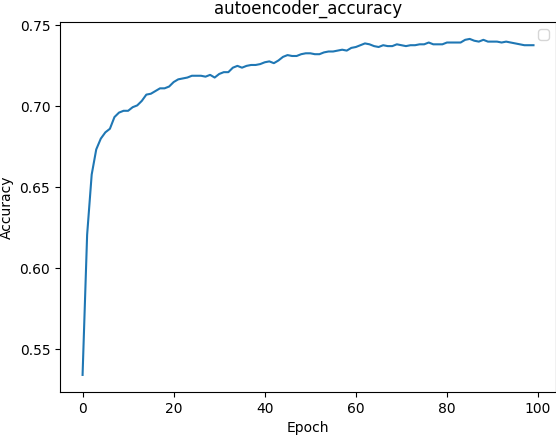
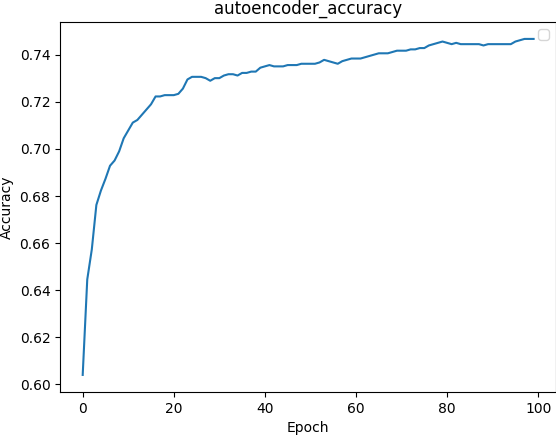
start assignment 3

diff --git a/assignment_3_1/model/model.py b/assignment_3_1/model/model.py
@@ -1,0 +1,71 @@
+import math
+from utils import generate_layers
+from layer.relu_layer import ReluLayer
+
+class Model:
+    def __init__(self, learning_rate, epochs, batch_size, layer_sizes) -> None:
+        self._layers = generate_layers(layer_sizes, ReluLayer, self.last_layer_class())
+        self._learning_rate = learning_rate
+        self._epochs = epochs
+        self._batch_size = batch_size
+        self.loss_data_points = []
+        self.accuracy_data_points = []
+        self.train_loss_data_point = []
+
+    def forward_propagation(self, X):
+        A = X
+        for layer in self._layers:
+            A = layer.forward_propagation(A)
+        return A
+    
+    def backward_propagation(self, dA):
+        dA_curr = dA
+        for layer in reversed(self._layers):
+            dA_curr = layer.backward_propagation(dA_curr)
+
+    def update(self, lr):
+        for layer in self._layers:
+            layer.update(lr)
+
+    def train(self, X, y, X_valid, y_valid):
+        X = X
+        y = y
+        for epoch in range(self._epochs):
+            i=0
+            num_of_batches = int(len(X)/self._batch_size)
+
+            for m in range(num_of_batches):
+                x = (X[i:i+self._batch_size]).T
+                y_true = (y[i:i+self._batch_size]).T
+                y_pred = self.forward_propagation(x)  
+                dA = self.calculate_dA(y_pred, y_true)
+                self.backward_propagation(dA)
+                self.update(self._learning_rate/(1 + math.log(epoch + 1, 2)))
+                i=i+self._batch_size
+
+            y_probabilities = self.forward_propagation(X_valid.T)
+            y_pred = self.predict(X_valid)
+            loss = self.calculate_loss(y_probabilities, y_valid.T)
+            accuracy = self.evaluation(y_valid.T, y_pred)
+            self.loss_data_points.append(loss)
+            self.accuracy_data_points.append(accuracy)
+            y_train_probabilities = self.forward_propagation(X.T)
+            loss = self.calculate_loss(y_train_probabilities, y.T)
+            self.train_loss_data_point.append(loss)
+
+
+    def calculate_loss(self, y_pred, y):
+        pass
+
+    def calculate_dA(self, y_pred, y):
+        pass
+
+    def evaluation(self, y_true, y_pred):
+        pass
+
+    def predict(self, X):
+        pass
+
+    def last_layer_class(self):
+        pass
+    

diff --git a/assignment_3_1/experiments.py b/assignment_3_1/experiments.py
@@ -1,0 +1,32 @@
+from model.autoencoder_model import AutoencoderModel
+from utils import vector_descaling, plot, save_image, plot_weights, plot_umap, vector_descaling, save_unseen_examples
+
+def batch_size_experiment(X_train, X_val, X_test, y_test):
+    lr = 0.02
+    batch_sizes = [5, 50, 500]
+    epochs = 50
+    dimensions = [784, 256, 64, 256, 784]
+
+    loss_data_points_arr = []
+    accuracy_data_points_arr = []
+    train_loss_data_points_arr = []
+
+
+    for i, batch_size in enumerate(batch_sizes):
+        model = AutoencoderModel(lr, epochs, batch_size, dimensions)
+        model.train(X_train, X_train, X_val, X_val)
+
+        loss_data_points_arr.append(model.loss_data_points)
+        accuracy_data_points_arr.append(model.accuracy_data_points)
+        train_loss_data_points_arr.append(model.train_loss_data_point)
+
+        save_unseen_examples(f"experiment_dims_reconstruction_{i}", model, X_test, 3)
+        plot_weights(f"experiment_dims_hidden_layer_repr_{i}.png", model._layers[0]._W)
+
+        pred = model.encode(X_test.T)
+        plot_umap(f"experiment_dims_{i}.png", pred.T, y_test)
+
+    plot(loss_data_points_arr, ["batch size = 5", "batch size = 50", "batch size = 500"], "Validation loss", f"experiment_dims_val_loss_{i}")
+    plot(accuracy_data_points_arr, ["batch size = 5", "batch size = 50", "batch size = 500"], "Accuracy", f"experiment_dims_accuracy_{i}")
+    plot(train_loss_data_points_arr, ["batch size = 5", "batch size = 50", "batch size = 500"], "Train loss", f"experiment_dims_train_loss_{i}")
+

diff --git a/assignment_3_1/main.py b/assignment_3_1/main.py
@@ -1,0 +1,32 @@
+from loader.fashion_mnist_data_loader import DataLoader
+from model.autoencoder_model import AutoencoderModel
+from selector.selector import Selector
+from utils import vector_descaling, plot, save_image, plot_weights, plot_umap, vector_descaling, save_unseen_examples
+from experiments import batch_size_experiment
+
+def standard_execution(X_train, X_val, X_test, y_test):
+    selector = Selector()
+    lr, batch_size, dims = selector.select_best_params(AutoencoderModel, X_train, X_val)
+
+    model = AutoencoderModel(lr, 200, batch_size, dims)
+    plot_weights("before_learning_hidden_layer.png", model._layers[0]._W)
+
+    model.train(X_train, X_train, X_val, X_val)
+
+    plot([model.loss_data_points], [""], "Validation loss", "main_model_val_loss")
+    plot([model.accuracy_data_points], [""], "Accuracy", "main_model_accuracy")
+    plot([model.train_loss_data_point], [""], "Train loss", "main_model_train_loss")
+
+    save_unseen_examples("main_model_reconstruction", model, X_test, 3)
+    plot_weights("after_learning_hidden_layer.png", model._layers[0]._W)
+
+    pred = model.encode(X_test.T)
+    plot_umap("main_model_umap.png", pred.T, y_test)
+
+def main():
+    loader = DataLoader()
+    X_train, y_train, X_val, y_val, X_test, y_test = loader.preprocess()
+    batch_size_experiment(X_train, X_val, X_test, y_test)
+
+if __name__ == "__main__":
+    main()

diff --git a/assignment_3_1/layer/layer.py b/assignment_3_1/layer/layer.py
@@ -1,0 +1,44 @@
+import numpy as np
+
+class Layer:
+    def __init__(self, in_size, out_size) -> None:
+        self._dW = None
+        self._db = None
+        self._A_prev = None
+        self._Z = None
+        initialization = self.initialization()
+        self._W = initialization(out_size, in_size)
+        self._b = initialization(out_size, 1)
+        self._in_size = in_size
+        self._out_size = out_size
+
+
+    def update(self, learning_rate):
+        self._W=self._W - learning_rate*self._dW
+        self._b=self._b - learning_rate*self._db
+
+    def forward_propagation(self, A_prev):
+        self._A_prev = np.copy(A_prev)
+        self._Z = np.matmul(self._W, A_prev)
+        self._Z=self._Z+self._b
+
+        return self.activation(self._Z)
+
+    def backward_propagation(self, dA):
+        dZ = self.backward_activation(dA)
+        n=1/self._A_prev.shape[1]
+        self._dW = n*np.matmul(dZ, self._A_prev.T)
+        self._db=n*np.sum(dZ, axis=1, keepdims=True)
+        return np.matmul(self._W.T, dZ)
+
+    def activation(self, Z):
+        pass
+
+    def backward_activation(self, dA):
+        pass
+
+    def __repr__(self) -> str:
+        return str(self.__class__) + " " + str(self._in_size) + " " + str(self._out_size)
+
+    def __str__(self) -> str:
+        return str(self.__class__) + " " + str(self._in_size) + " " + str(self._out_size)

diff --git a/assignment_3_1/loader/fashion_mnist_data_loader.py b/assignment_3_1/loader/fashion_mnist_data_loader.py
@@ -1,0 +1,47 @@
+import numpy as np
+import pandas as pd
+from utils import pixel_scaling
+
+class DataLoader:
+    def load(self):
+        # fetch dataset 
+        df = pd.read_csv('fashion-mnist_train.csv')
+
+        # data (as pandas dataframes) 
+        X = df.iloc[:, 1:] 
+        y = df['label'] 
+        
+        return X, y
+    
+    def preprocess(self):
+        X, y = self.load()
+        na_indices = X[X.isna().any(axis=1)].index
+        X = X.drop(na_indices)
+        y = y.drop(na_indices)
+        X = X.apply(pixel_scaling)
+
+        X = X.to_numpy()
+        y = y.to_numpy()
+
+        indices = np.arange(X.shape[0])
+        indices = indices[::5]
+        np.random.shuffle(indices)
+        X = X[indices]
+        y = y[indices]
+
+        return self.split_data(X, y)
+
+    def split_data(self, X, y):
+        train_size = int(0.7 * len(X))
+        val_size = int(0.15 * len(X))
+
+        X_train = X[:train_size]
+        y_train = y[:train_size]
+
+        X_val = X[train_size:train_size + val_size]
+        y_val = y[train_size:train_size + val_size]
+
+        X_test = X[train_size + val_size:]
+        y_test = y[train_size + val_size:]
+
+        return X_train, y_train, X_val, y_val, X_test, y_test

diff --git a/assignment_2_3/main.py b/assignment_2_3/main.py
@@ -21,12 +21,16 @@ def autoencoder_execution(X_train, y_train, X_val, y_val, X_test, y_test):
     autoencoder = AutoencoderModel(0.001, 50, 200, [784, 256, 64, 256, 784])
     autoencoder.train(X_train, X_train, X_val, X_val)
 
+    pred = autoencoder.encode(X_test.T)
+    plot_umap("main_model_umap.png", pred.T, y_test)
+
     X_train_encoded = autoencoder.encode(X_train.T).T
     X_val_encoded = autoencoder.encode(X_val.T).T
     X_test_encoded = autoencoder.encode(X_test.T).T
 
     model = SoftmaxClassificationModel(0.01, 100, 50, [64, 512, 256, 10])
     model.train(X_train_encoded, y_train, X_val_encoded, y_val)
+
 
     plot([model.loss_data_points], [""], "Validation loss", "autoencoder_val_loss")
     plot([model.accuracy_data_points], [""], "Accuracy", "autoencoder_accuracy")
@@ -58,7 +62,7 @@ def standard_execution(X_train, X_val, X_test, y_test):
 def main():
     loader = DataLoader()
     X_train, y_train, X_val, y_val, X_test, y_test = loader.preprocess()
-    no_autoencoder_execution(X_train, y_train, X_val, y_val, X_test, y_test)
+    # no_autoencoder_execution(X_train, y_train, X_val, y_val, X_test, y_test)
     autoencoder_execution(X_train, y_train, X_val, y_val, X_test, y_test)
 
 if __name__ == "__main__":

diff --git a/assignment_3_1/selector/selector.py b/assignment_3_1/selector/selector.py
@@ -1,0 +1,33 @@
+
+from utils import plot_umap
+
+learning_rates = [0.02, 0.01]
+batch_sizes = [50, 100, 200]
+dimensions_set = [[784, 256, 64, 256, 784], [784, 256, 128, 64, 128, 256, 784]]
+
+# learning_rates = [0.01]
+# batch_sizes = [100]
+# dimensions_set = [[784, 256, 64, 256, 784]]
+
+class Selector():
+
+    def select_best_params(self, model_class, X_train, X_val):
+        best_accuracy = float("-inf")
+        best_params = ()
+        for lr in learning_rates:
+            for batch_size in batch_sizes:
+                for dims in dimensions_set:
+                    model = model_class(lr, 20, batch_size, dims)
+                    model.train(X_train, X_train, X_val, X_val)
+
+                    X_pred = model.predict(X_val)
+                    accuracy = model.evaluation(X_val, X_pred.T)
+                    
+                    result = "Model parameters: \n Learning rate = {} \n Batch size = {} \n Dimensions = {} \n Accuracy = {} \n\n".format(lr, batch_size, len(dims) - 1, accuracy)
+                    print(result)
+
+                    if accuracy > best_accuracy:
+                        best_accuracy = accuracy
+                        best_params = (lr, batch_size, dims)
+
+        return best_params

diff --git a/assignment_3_1/model/autoencoder_model.py b/assignment_3_1/model/autoencoder_model.py
@@ -1,0 +1,29 @@
+from model.model import Model
+from utils import mean_absolute_error
+from layer.regression_layer import RegressionLayer
+from layer.sigmoid_layer import SigmoidLayer
+
+class AutoencoderModel(Model):
+    
+    def predict(self, X):
+        X_matrix = X.T
+        return self.forward_propagation(X_matrix)
+
+    def calculate_loss(self, y_pred, y):
+        n = 1/y_pred.shape[1]
+        return n/2 * ((y - y_pred) ** 2).sum()
+    
+    def calculate_dA(self, y_pred, y):
+        return y_pred - y
+
+    def last_layer_class(self):
+        return SigmoidLayer
+    
+    def evaluation(self, y_true, y_pred):
+        return -mean_absolute_error(y_true, y_pred)
+    
+    def encode(self, X):
+        A = X
+        for i in range(int(len(self._layers)/2)):
+            A = self._layers[i].forward_propagation(A)
+        return A

diff --git a/assignment_3_1/utils.py b/assignment_3_1/utils.py
@@ -24,7 +24,7 @@ def vector_descaling(vector):
     return vector * 255/np.max(vector)
 
 def binary_accuracy(y_true, y_pred):
-    return (y_true == y_pred).mean()
+    return (y_true == y_pred).all(axis=0).mean()
 
 def mean_absolute_error(y_true, y_pred):
     return np.mean(np.abs(y_true - y_pred))
@@ -124,5 +124,4 @@ def plot_umap(name, X, y):
     plt.scatter(trans.embedding_[:, 0], trans.embedding_[:, 1], s= 5, c=y, cmap='Spectral')
     plt.title('Embedding of the training set by UMAP', fontsize=24)
     plt.savefig(f"images/{name}", bbox_inches='tight', pad_inches=0, transparent=False, dpi = 960)
-    plt.colorbar()
     plt.show()

diff --git a/assignment_3_1/layer/sigmoid_layer.py b/assignment_3_1/layer/sigmoid_layer.py
@@ -1,0 +1,22 @@
+from .layer import Layer
+import numpy as np
+from utils import xavier_initialization
+
+class SigmoidLayer(Layer):
+
+    def __init__(self, in_size, out_size) -> None:
+        super().__init__(in_size, out_size)
+
+    def sigmoid(self, Z):
+        return 1/(1+np.exp(-Z))
+    
+    def activation(self, Z):
+        self._A = self.sigmoid(Z)
+        return self._A
+        
+    def backward_activation(self, dA):
+        dZ = dA * self._A * (1 - self._A)
+        return dZ
+    
+    def initialization(self):
+        return xavier_initialization

diff --git a/assignment_3_1/layer/relu_layer.py b/assignment_3_1/layer/relu_layer.py
@@ -1,0 +1,16 @@
+from .layer import Layer
+import numpy as np
+from utils import he_initialization
+
+class ReluLayer(Layer):
+    
+    def activation(self, Z):
+        return np.maximum(0, Z)
+    
+    def backward_activation(self, dA):
+        dZ = np.array(dA, copy=True)
+        dZ[self._Z <= 0] = 0
+        return dZ
+    
+    def initialization(self):
+        return he_initialization

diff --git a/assignment_3_1/layer/regression_layer.py b/assignment_3_1/layer/regression_layer.py
@@ -1,0 +1,14 @@
+from .layer import Layer
+from utils import xavier_initialization
+
+class RegressionLayer(Layer):   
+    def activation(self, Z):
+        self._A = Z
+        return self._A
+        
+    def backward_activation(self, dA):
+        dZ = dA
+        return dZ
+
+    def initialization(self):
+        return xavier_initialization
